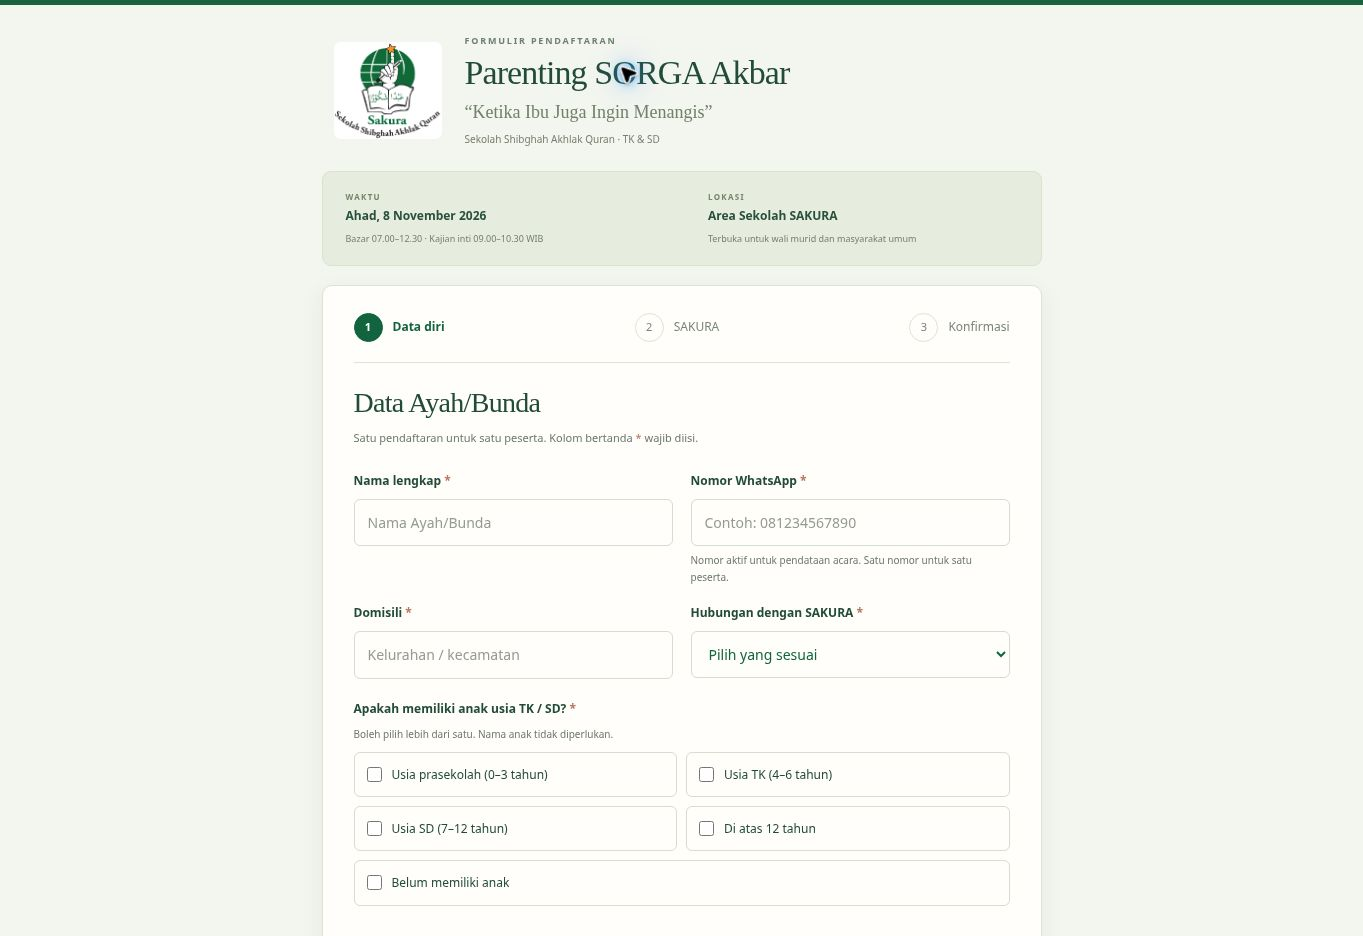
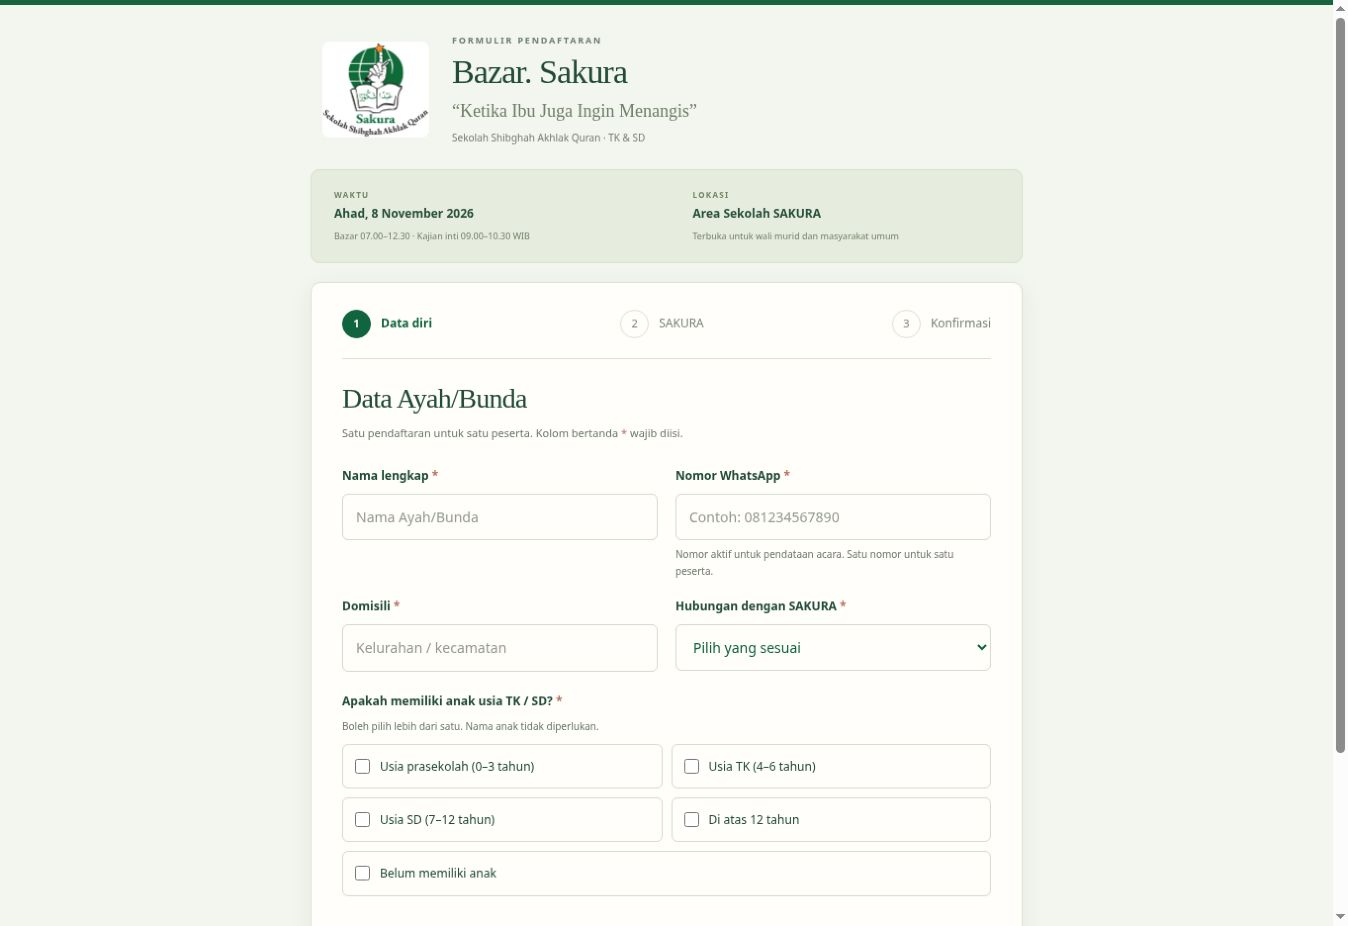
Rename form and event title to Bazar. Sakura

diff --git a/public/admin/index.html b/public/admin/index.html
@@ -1,5 +1,5 @@
 <!doctype html>
-<html lang="id"><head><meta charset="utf-8"><meta name="viewport" content="width=device-width, initial-scale=1"><meta name="robots" content="noindex,nofollow"><meta name="theme-color" content="#214f43"><title>Panitia SORGA — SAKURA</title><link rel="icon" href="/assets/logo-sakura.png" type="image/png"><link rel="stylesheet" href="/assets/style.css"><link rel="stylesheet" href="/assets/admin.css"><script src="/assets/qr.js" defer></script><script type="module" src="/assets/admin.js"></script></head>
+<html lang="id"><head><meta charset="utf-8"><meta name="viewport" content="width=device-width, initial-scale=1"><meta name="robots" content="noindex,nofollow"><meta name="theme-color" content="#214f43"><title>Panitia — Bazar. Sakura</title><link rel="icon" href="/assets/logo-sakura.png" type="image/png"><link rel="stylesheet" href="/assets/style.css"><link rel="stylesheet" href="/assets/admin.css"><script src="/assets/qr.js" defer></script><script type="module" src="/assets/admin.js"></script></head>
 <body class="admin-body">
   <section class="login-page" id="login-view">
     <a class="brand" href="/"><img src="/assets/logo-sakura.png" alt="" width="55" height="50"><span><strong>SAKURA.</strong><small>Shibghah Akhlak Quran</small></span></a>
@@ -20,8 +20,8 @@
     <a class="text-link" href="/">← Kembali ke formulir peserta</a>
   </section>
   <div class="admin-layout" id="dashboard-view" hidden>
-    <aside class="sidebar"><a class="brand" href="/"><img src="/assets/logo-sakura.png" alt="" width="37" height="37"><span><strong>SAKURA.</strong><small>Ruang panitia</small></span></a><div class="sidebar-event"><small>ACARA AKTIF</small><strong>Parenting<br>SORGA Akbar</strong><span>8 November 2026</span></div><nav aria-label="Navigasi dashboard"><button class="nav-item is-active" data-tab="overview" type="button"><span aria-hidden="true">◫</span> Ringkasan</button><button class="nav-item" data-tab="participants" type="button"><span aria-hidden="true">☷</span> Daftar peserta</button><button class="nav-item" data-tab="stands" type="button"><span aria-hidden="true">⌑</span> Stand & referral</button></nav><div class="sidebar-bottom"><a href="/" target="_blank" rel="noopener">Lihat halaman acara ↗</a><button id="logout" type="button">Keluar dashboard ↗</button><small>Data peserta bersifat pribadi.</small></div></aside>
-    <main class="admin-main"><header class="admin-header"><span>Parenting SORGA Akbar <span class="header-divider">/</span> <strong id="current-tab">Ringkasan</strong></span><div><span class="admin-badge"><span></span> Panitia SAKURA</span><button class="button button-outline button-small" id="refresh" type="button">↻ Muat ulang</button></div></header>
+    <aside class="sidebar"><a class="brand" href="/"><img src="/assets/logo-sakura.png" alt="" width="37" height="37"><span><strong>SAKURA.</strong><small>Ruang panitia</small></span></a><div class="sidebar-event"><small>ACARA AKTIF</small><strong>Bazar.<br>Sakura</strong><span>8 November 2026</span></div><nav aria-label="Navigasi dashboard"><button class="nav-item is-active" data-tab="overview" type="button"><span aria-hidden="true">◫</span> Ringkasan</button><button class="nav-item" data-tab="participants" type="button"><span aria-hidden="true">☷</span> Daftar peserta</button><button class="nav-item" data-tab="stands" type="button"><span aria-hidden="true">⌑</span> Stand & referral</button></nav><div class="sidebar-bottom"><a href="/" target="_blank" rel="noopener">Lihat halaman acara ↗</a><button id="logout" type="button">Keluar dashboard ↗</button><small>Data peserta bersifat pribadi.</small></div></aside>
+    <main class="admin-main"><header class="admin-header"><span>Bazar. Sakura <span class="header-divider">/</span> <strong id="current-tab">Ringkasan</strong></span><div><span class="admin-badge"><span></span> Panitia SAKURA</span><button class="button button-outline button-small" id="refresh" type="button">↻ Muat ulang</button></div></header>
       <div class="admin-content"><div id="dashboard-error" class="notice error" role="alert" hidden></div>
         <section id="tab-overview" class="tab-panel"><div class="admin-title"><div><span class="eyebrow">SETIAP UNDANGAN, SEBUAH KEBAIKAN</span><h1>Gambaran acara.</h1><p>Ikuti pendaftaran, kehadiran, dan perkenalan keluarga baru dengan SAKURA.</p></div><button class="button" data-go="participants" type="button">Kelola peserta ↗</button></div>
           <div class="stat-grid"><article><small>TOTAL PENDAFTAR</small><strong id="stat-total">—</strong><span>Peserta terdaftar</span></article><article><small>SUDAH HADIR</small><strong id="stat-present">—</strong><span id="stat-attendance-caption">Kehadiran di lokasi</span></article><article><small>BARU MENGENAL SAKURA</small><strong id="stat-new">—</strong><span>Dari jawaban formulir</span></article><article><small>TERTARIK TK / SD</small><strong id="stat-interested">—</strong><span id="stat-consent-caption">Persetujuan dihubungi dicatat terpisah</span></article></div>
@@ -33,7 +33,7 @@
         </section>
         <section id="tab-stands" class="tab-panel" hidden><div class="admin-title"><div><span class="eyebrow">10 STAND, BANYAK KEBAIKAN</span><h1>Stand & referral.</h1><p>Atur nama stand, bagikan tautan / QR, dan pantau tamu yang benar-benar hadir.</p></div></div><div class="panel"><div class="panel-title"><div><h2>Rekap Stand Ter-Sorga</h2><p>Kode tetap, nama dan kelas dapat disesuaikan panitia.</p></div></div><div class="table-scroll"><table class="stands-table"><thead><tr><th>Stand bazar</th><th>Daftar</th><th>Hadir</th><th>Umum hadir</th><th>Target usia hadir</th><th>Target 3 + 1</th><th>Aksi</th></tr></thead><tbody id="stands-body"></tbody></table></div></div><div class="admin-note"><span aria-hidden="true">↗</span><p>Setiap QR mengarah ke halaman acara dengan referral terisi otomatis. Stand nonaktif tidak menerima pendaftar baru; riwayat pesertanya tetap tersimpan.</p></div></section>
       </div>
-      <footer class="admin-footer"><span>SAKURA · Parenting SORGA Akbar 2026</span><span id="last-updated"></span></footer>
+      <footer class="admin-footer"><span>SAKURA · Bazar. Sakura 2026</span><span id="last-updated"></span></footer>
     </main>
   </div>
   <dialog id="stand-dialog" class="modal"><button data-close class="modal-close" type="button" aria-label="Tutup">×</button><span class="eyebrow">KELOLA STAND</span><h2 id="stand-dialog-title">Edit stand.</h2><form id="stand-form"><input type="hidden" id="edit-code"><div class="field"><label for="edit-name">Nama stand *</label><input id="edit-name" required minlength="2" maxlength="70" placeholder="Contoh: Dapur Bunda Rei"></div><div class="field"><label for="edit-owner">Pemilik / penanggung jawab</label><input id="edit-owner" maxlength="80"></div><div class="field"><label for="edit-class">Kelas</label><input id="edit-class" maxlength="60" placeholder="Contoh: Kelas 4 Sakura"></div><label class="consent"><input type="checkbox" id="edit-active"><span>Aktif menerima pendaftaran baru</span></label><div class="notice error" id="stand-error" role="alert" hidden></div><button class="button" type="submit" id="save-stand">Simpan perubahan ↗</button></form></dialog>

diff --git a/public/index.html b/public/index.html
@@ -4,11 +4,11 @@
   <meta charset="utf-8">
   <meta name="viewport" content="width=device-width, initial-scale=1">
   <meta name="theme-color" content="#214f43">
-  <meta name="description" content="Daftar Parenting SORGA Akbar, Ketika Ibu Juga Ingin Menangis. Ahad, 8 November 2026 di Sekolah SAKURA. Isi formulir peserta, kode referral stand, dan simpan bukti pendaftaran.">
-  <meta property="og:title" content="Parenting SORGA Akbar — Sekolah SAKURA">
+  <meta name="description" content="Daftar Bazar. Sakura, Ketika Ibu Juga Ingin Menangis. Ahad, 8 November 2026 di Sekolah SAKURA. Isi formulir peserta, kode referral stand, dan simpan bukti pendaftaran.">
+  <meta property="og:title" content="Bazar. Sakura — Sekolah SAKURA">
   <meta property="og:description" content="Sebuah ruang untuk belajar, bertumbuh, dan menenangkan hati. Ahad, 8 November 2026.">
   <meta property="og:type" content="website">
-  <title>Form Pendaftaran SORGA Akbar — Sekolah SAKURA</title>
+  <title>Bazar. Sakura — Form Pendaftaran</title>
   <link rel="icon" type="image/png" href="/assets/logo-sakura.png">
   <link rel="stylesheet" href="/assets/style.css">
   <link rel="stylesheet" href="/assets/form.css">
@@ -22,7 +22,7 @@
       <img class="school-logo" src="/assets/logo-sakura.png" width="108" height="97" alt="Logo Sekolah Shibghah Akhlak Quran SAKURA">
       <div>
         <span class="eyebrow">FORMULIR PENDAFTARAN</span>
-        <h1>Parenting SORGA Akbar</h1>
+        <h1>Bazar. Sakura</h1>
         <p class="event-theme">“Ketika Ibu Juga Ingin Menangis”</p>
         <p class="school-name">Sekolah Shibghah Akhlak Quran · TK & SD</p>
       </div>
@@ -67,7 +67,7 @@
         </form>
       </div>
     </section>
-    <footer class="registration-footer"><span>SAKURA · Parenting SORGA Akbar 2026</span><a href="/admin/">Akses panitia ↗</a></footer>
+    <footer class="registration-footer"><span>SAKURA · Bazar. Sakura 2026</span><a href="/admin/">Akses panitia ↗</a></footer>
   </main>
 
   <dialog id="privacy-dialog" class="modal"><button class="modal-close" data-close type="button" aria-label="Tutup privasi">×</button><span class="eyebrow">PRIVASI PENDAFTARAN</span><h2>Data Ayah/Bunda<br>kami jaga.</h2><div class="privacy-content"><p>Panitia SORGA Akbar Sekolah SAKURA mengumpulkan nama, nomor WhatsApp, domisili, kelompok usia anak, hubungan dengan sekolah, jawaban pengenalan sekolah, kode referral, serta status kehadiran dan souvenir.</p><p>Data digunakan untuk registrasi dan pelaksanaan acara, rekap referral, dan evaluasi pengenalan sekolah. Pemilik stand tidak mendapat akses ke data pribadi peserta melalui website ini. Data tidak ditampilkan secara publik.</p><p>Informasi sekolah atau PPDB melalui WhatsApp hanya dapat ditindaklanjuti jika persetujuan opsional dipilih. Persetujuan tercatat terpisah dari pendataan acara.</p><p>Hubungi panitia atau pihak Sekolah SAKURA secara langsung untuk koreksi, penarikan persetujuan, atau penghapusan data. Panitia bertanggung jawab meninjau penyimpanan data setelah kebutuhan acara selesai. Nama anak, alamat lengkap, dan data kesehatan tidak diminta.</p><small>Versi persetujuan: 2026-10-v1</small></div><button class="button" data-close type="button">Saya mengerti</button></dialog>

diff --git a/public/assets/app.js b/public/assets/app.js
@@ -129,7 +129,7 @@ $('#download-ticket').addEventListener('click',()=>{
   const nameLines=[];let line='';for(const word of t.fullName.split(/\s+/)){if((line+' '+word).length>32&&line){nameLines.push(line);line=word;}else line=line?`${line} ${word}`:word;}if(line)nameLines.push(line);
   // QR keeps the library viewBox so every generated module remains square.
   const nativeQr=qrSvg(t.code,190).replace('<svg ','<svg x="255" y="370" ');
-  const svg=`<svg xmlns="http://www.w3.org/2000/svg" width="700" height="850" viewBox="0 0 700 850"><rect width="700" height="850" rx="24" fill="#faf9f4"/><rect x="30" y="30" width="640" height="790" rx="18" fill="none" stroke="#b8c7ad" stroke-dasharray="5 5"/><g text-anchor="middle" fill="#214f43" font-family="Arial,sans-serif"><text x="350" y="95" font-size="16" letter-spacing="3">SEKOLAH SAKURA</text><text x="350" y="145" font-size="30" font-family="Georgia,serif">Parenting SORGA Akbar</text><text x="350" y="187" font-size="19">Ketika Ibu Juga Ingin Menangis</text><text x="350" y="235" font-size="13" letter-spacing="2">BUKTI PENDAFTARAN</text>${nameLines.slice(0,3).map((l,i)=>`<text x="350" y="${285+i*29}" font-size="22">${esc(l)}</text>`).join('')}<text x="350" y="598" font-size="19" letter-spacing="2">${esc(t.code)}</text><text x="350" y="648" font-size="20">${esc(t.event.date)}</text><text x="350" y="680" font-size="15">${esc(t.event.venue)}</text><text x="350" y="724" font-size="14">Referral: ${esc(t.standCode)}</text><text x="350" y="755" font-size="12">Tunjukkan bukti ini kepada panitia saat datang.</text></g>${nativeQr}</svg>`;
+  const svg=`<svg xmlns="http://www.w3.org/2000/svg" width="700" height="850" viewBox="0 0 700 850"><rect width="700" height="850" rx="24" fill="#faf9f4"/><rect x="30" y="30" width="640" height="790" rx="18" fill="none" stroke="#b8c7ad" stroke-dasharray="5 5"/><g text-anchor="middle" fill="#214f43" font-family="Arial,sans-serif"><text x="350" y="95" font-size="16" letter-spacing="3">SEKOLAH SAKURA</text><text x="350" y="145" font-size="30" font-family="Georgia,serif">${esc(t.event.name)}</text><text x="350" y="187" font-size="19">Ketika Ibu Juga Ingin Menangis</text><text x="350" y="235" font-size="13" letter-spacing="2">BUKTI PENDAFTARAN</text>${nameLines.slice(0,3).map((l,i)=>`<text x="350" y="${285+i*29}" font-size="22">${esc(l)}</text>`).join('')}<text x="350" y="598" font-size="19" letter-spacing="2">${esc(t.code)}</text><text x="350" y="648" font-size="20">${esc(t.event.date)}</text><text x="350" y="680" font-size="15">${esc(t.event.venue)}</text><text x="350" y="724" font-size="14">Referral: ${esc(t.standCode)}</text><text x="350" y="755" font-size="12">Tunjukkan bukti ini kepada panitia saat datang.</text></g>${nativeQr}</svg>`;
   download(`Bukti-SORGA-${t.code}.svg`,svg,'image/svg+xml');toast('Bukti pendaftaran berhasil diunduh.');
 });
 $('#print-ticket').addEventListener('click',()=>window.print());

diff --git a/public/assets/shared.js b/public/assets/shared.js
@@ -5,7 +5,7 @@ export function normalizeStandCode(value) {
   return match ? `SAKURA${match[1]||match[2]}` : null;
 }
 export const EVENT = Object.freeze({
-  name: 'Parenting SORGA Akbar',
+  name: 'Bazar. Sakura',
   title: 'Ketika Ibu Juga Ingin Menangis',
   date: 'Ahad, 8 November 2026',
   shortDate: '8 November 2026',

diff --git a/README.md b/README.md
@@ -1,4 +1,4 @@
-# SAKURA — Form Parenting SORGA Akbar
+# Bazar. Sakura — Form Pendaftaran
 
 Form peserta **“Ketika Ibu Juga Ingin Menangis”**, Ahad **8 November 2026**, untuk Sekolah Shibghah Akhlak Quran (TK / SD). Halaman langsung membuka formulir dengan logo resmi sekolah.
 
